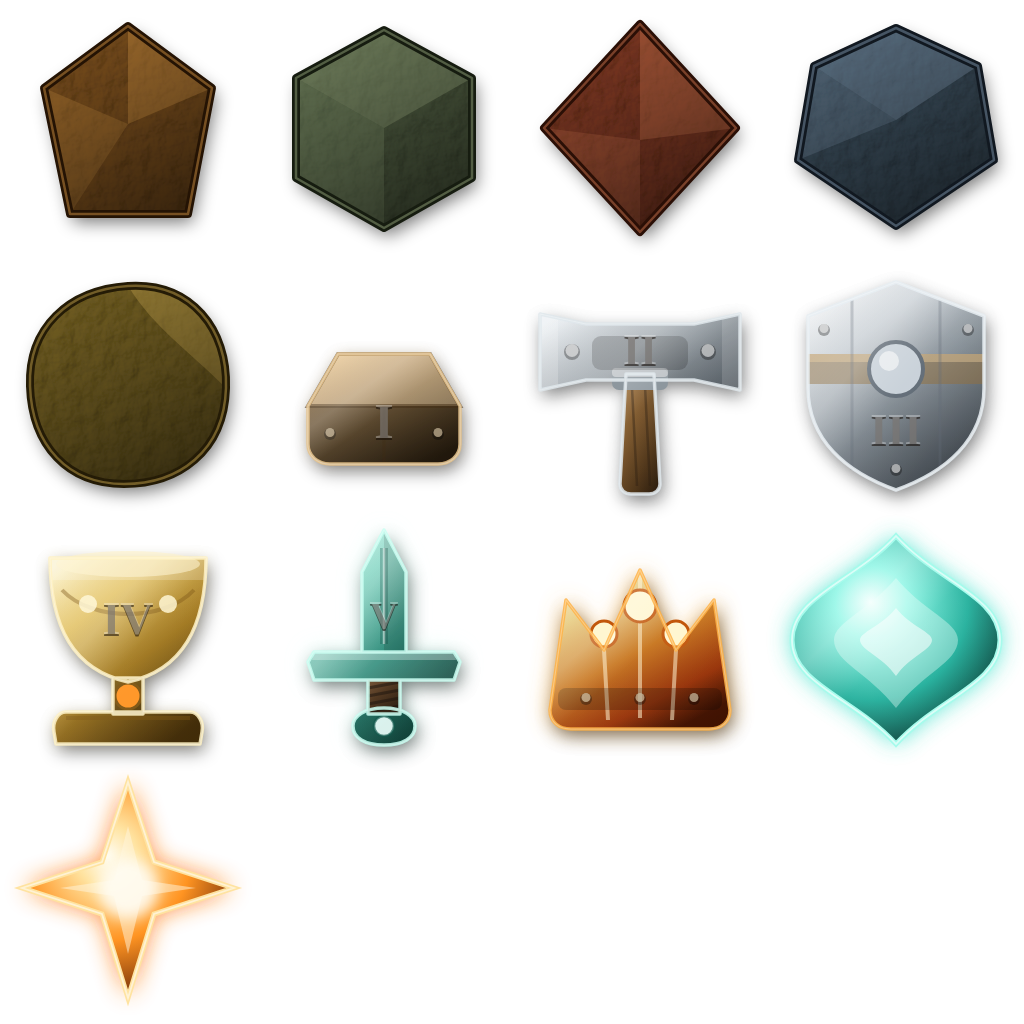
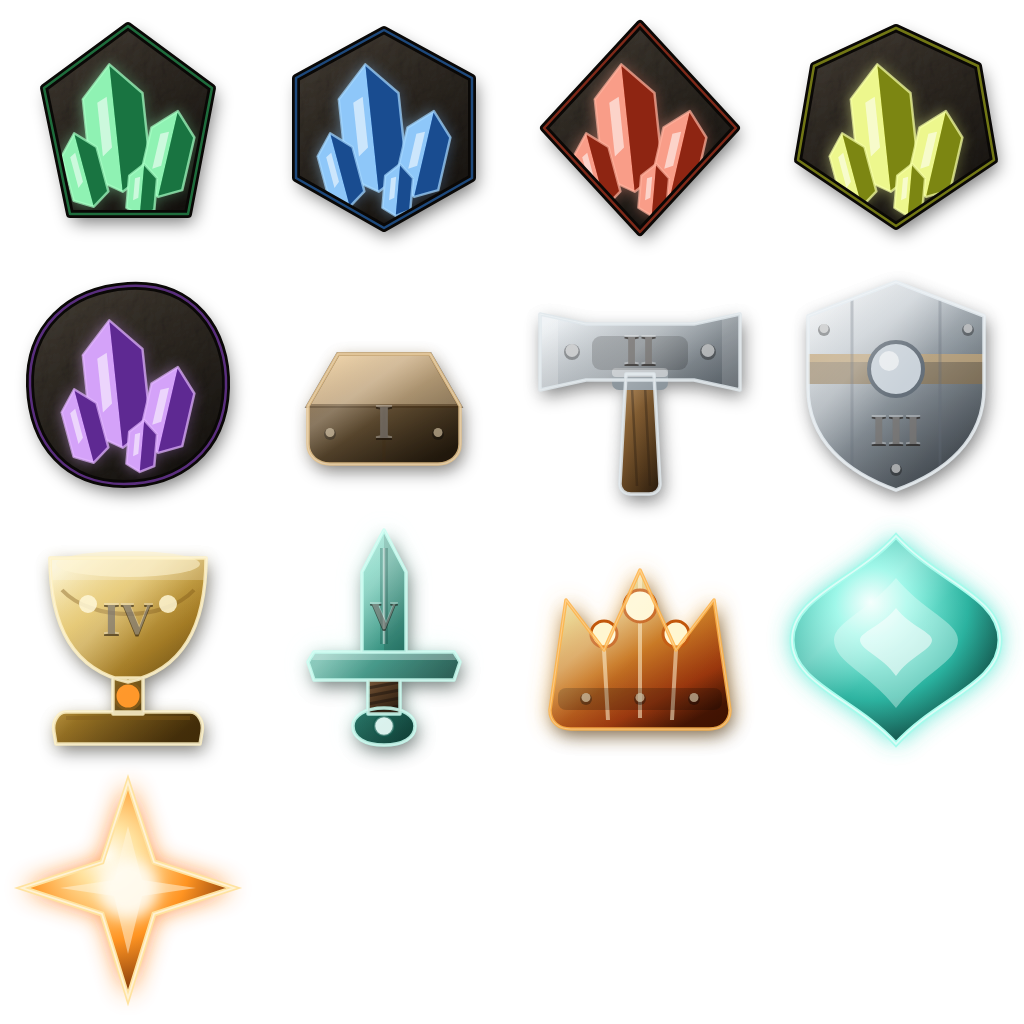
ore reads as mineral, not mud
Ore fills most of the board most of the time, and five muddy earth tones with
no hue separation is what made the whole grid read as one brown mass. Ore is
now a shared dark rock matrix (so it still reads as worthless fuel) holding a
saturated crystal cluster: malachite, azurite, cinnabar, sulphur, amethyst —
chosen to stay clear of the specials, since FLUX owns cyan-teal and CINDER
owns amber.

The cluster geometry is shared and clipped to each variant's silhouette, so
shape still carries variant identity (the colour-blind cue) while hue carries
the separation. Prisms are tilted because three upright ones of graded height
read as a bar chart. The shade ramp is applied to the matrix only — laying it
over the mineral desaturated it straight back to mud.

Claude-Session: https://claude.ai/code/session_01MBe59g7YXxVzVxsAitSXq5

diff --git a/assets/generate_art.py b/assets/generate_art.py
@@ -117,6 +117,12 @@ def defs() -> str:
     <stop offset="0" stop-color="#000000" stop-opacity="0.02"/>
     <stop offset="1" stop-color="#000000" stop-opacity="0.42"/>
   </linearGradient>
+  <!-- one dark matrix for every ore variant: the rock is the same worthless
+       stone everywhere, only the mineral in it differs -->
+  <linearGradient id="oreMatrix" x1="0.2" y1="0" x2="0.8" y2="1">
+    <stop offset="0" stop-color="#4a443c"/><stop offset="0.4" stop-color="#332e28"/>
+    <stop offset="1" stop-color="#171310"/>
+  </linearGradient>
   <!-- ore sits in shadow far harder than polished metal does -->
   <linearGradient id="oreShade" x1="0.25" y1="0" x2="0.75" y2="1">
     <stop offset="0" stop-color="#000000" stop-opacity="0"/>
@@ -157,29 +163,74 @@ ORE_FACETS = {
 }
 
 
-def ore(shape: str, base: str, light: str, dark: str, seed: int) -> str:
+# One crystal cluster, shared by every variant and clipped to the variant's own
+# silhouette. Sharing it is deliberate: the SHAPE carries variant identity (the
+# colour-blind cue), the HUE carries the separation, and a shared cluster keeps
+# all five reading as the same material.
+CLUSTER = [
+    # (cx, cy, half-width, half-height, tilt°) — the tilts matter: three upright
+    # prisms of graded height read as a bar chart, not as crystal.
+    (116, 128, 30, 64, -6),
+    (168, 154, 22, 44, 13),
+    (84, 170, 18, 38, -15),
+    (142, 190, 14, 26, 5),
+]
+
+
+def crystal(cx: int, cy: int, w: int, h: int, tilt: float,
+            light: str, mid: str, dark: str) -> str:
+    """A single faceted prism, lit from the upper left."""
+    body = (f"M{cx},{cy - h} L{cx + w},{cy - h * 0.5:.0f} "
+            f"L{cx + w},{cy + h * 0.72:.0f} L{cx},{cy + h} "
+            f"L{cx - w},{cy + h * 0.72:.0f} L{cx - w},{cy - h * 0.5:.0f} Z")
+    lit = (f"M{cx},{cy - h} L{cx},{cy + h} L{cx - w},{cy + h * 0.72:.0f} "
+           f"L{cx - w},{cy - h * 0.5:.0f} Z")
+    shade = (f"M{cx},{cy - h} L{cx + w},{cy - h * 0.5:.0f} "
+             f"L{cx + w},{cy + h * 0.72:.0f} L{cx},{cy + h} Z")
+    return (f'<g transform="rotate({tilt} {cx} {cy})">'
+            f'<path d="{body}" fill="{mid}"/>'
+            f'<path d="{lit}" fill="{light}" opacity="0.8"/>'
+            f'<path d="{shade}" fill="{dark}" opacity="0.6"/>'
+            # a hard specular streak is what separates "crystal" from "paint"
+            f'<path d="M{cx - w * 0.55:.0f},{cy - h * 0.42:.0f} '
+            f'L{cx - w * 0.2:.0f},{cy - h * 0.5:.0f} '
+            f'L{cx - w * 0.2:.0f},{cy + h * 0.3:.0f} '
+            f'L{cx - w * 0.55:.0f},{cy + h * 0.42:.0f} Z" '
+            f'fill="#ffffff" opacity="0.55"/>'
+            f'<path d="{body}" fill="none" stroke="{light}" stroke-width="2.5" '
+            f'opacity="0.7" stroke-linejoin="round"/></g>')
+
+
+def ore(shape: str, light: str, mid: str, deep: str, seed: int) -> str:
+    """Raw ore: a dark rock matrix with a saturated crystal cluster growing out.
+
+    The previous version was a faceted brown rock, and since ore fills most of
+    the board most of the time, the whole grid read as one muddy earth tone with
+    nothing separating the five variants at a glance. Ore is now MINERAL: one
+    shared dark matrix so it still reads as worthless fuel, and a strongly
+    hue-separated crystal cluster so the board has colour and the variants are
+    distinguishable peripherally.
+    """
     body = ORE_SHAPES[shape]
-    # Facets carry the whole read of a rough rock; at low opacity the turbulence
-    # texture flattens them out and every ore variant collapses into one brown
-    # blob, which is exactly what the drop-shadow-less fuel symbols must not do.
-    facets = "".join(
-        f'<path d="{f}" fill="{light}" opacity="{0.44 - i * 0.13:.2f}"/>'
-        for i, f in enumerate(ORE_FACETS[shape]))
-    # chipped edges: short strokes along the silhouette
+    cluster = "".join(crystal(cx, cy, w, h, tilt, light, mid, deep)
+                      for cx, cy, w, h, tilt in CLUSTER)
     return f"""
 <g>
   <g filter="url(#softShadow)" opacity="0.55">
     <path d="{body}" fill="#000000" transform="translate(4,8)"/>
   </g>
-  <path d="{body}" fill="{base}"/>
+  <path d="{body}" fill="url(#oreMatrix)"/>
   <g clip-path="url(#clip{seed})">
-    <path d="{body}" fill="{base}" filter="url(#rock)" opacity="0.92"/>
+    <path d="{body}" fill="#3a332b" filter="url(#rock)" opacity="0.55"/>
+    <!-- the matrix takes the shade pass, the crystal does NOT: laying the ramp
+         over the mineral desaturated it straight back to mud -->
+    <path d="{body}" fill="url(#oreShade)"/>
+    <g filter="url(#glowTight)" opacity="0.5">{cluster}</g>
+    {cluster}
   </g>
-  {facets}
-  <path d="{body}" fill="url(#oreShade)"/>
-  <path d="{body}" fill="none" stroke="{dark}" stroke-width="8" stroke-linejoin="round"/>
-  <path d="{body}" fill="none" stroke="{light}" stroke-width="2.5"
-        stroke-linejoin="round" opacity="0.5"/>
+  <path d="{body}" fill="none" stroke="#0a0806" stroke-width="8" stroke-linejoin="round"/>
+  <path d="{body}" fill="none" stroke="{mid}" stroke-width="2.5"
+        stroke-linejoin="round" opacity="0.55"/>
 </g>"""
 
 
@@ -289,11 +340,14 @@ def wrap_lines(x0: int, x1: int, y0: int, y1: int, step: int,
 
 
 SYMBOLS: list[tuple[str, str]] = [
-    ("O1", ore("shard", "#7a4f1e", "#c98d3f", "#241304", 1)),
-    ("O2", ore("cube", "#4d5a3f", "#8fa077", "#161c10", 2)),
-    ("O3", ore("rhomb", "#803a24", "#c8724c", "#2a0f06", 3)),
-    ("O4", ore("hex", "#3b4c5a", "#7b91a8", "#111820", 4)),
-    ("O5", ore("nodule", "#736023", "#c0a04a", "#241b06", 5)),
+    # Five minerals, chosen for maximum hue separation from each other AND from
+    # the specials: FLUX owns cyan-teal and CINDER owns amber, so ore takes
+    # green, blue, red, lime and violet.
+    ("O1", ore("shard", "#a8ffc6", "#2fbf6a", "#0b4227", 1)),      # malachite
+    ("O2", ore("cube", "#a6d9ff", "#2f7fdf", "#0b2a5c", 2)),       # azurite
+    ("O3", ore("rhomb", "#ffb3a0", "#e0452a", "#571004", 3)),      # cinnabar
+    ("O4", ore("hex", "#f6ffa8", "#c9d423", "#4a5206", 4)),        # sulphur
+    ("O5", ore("nodule", "#e2b6ff", "#9a4fe0", "#37115e", 5)),     # amethyst
 
     # I — a cast bronze bar, straight off the mould
     ("BRONZE", relic(
